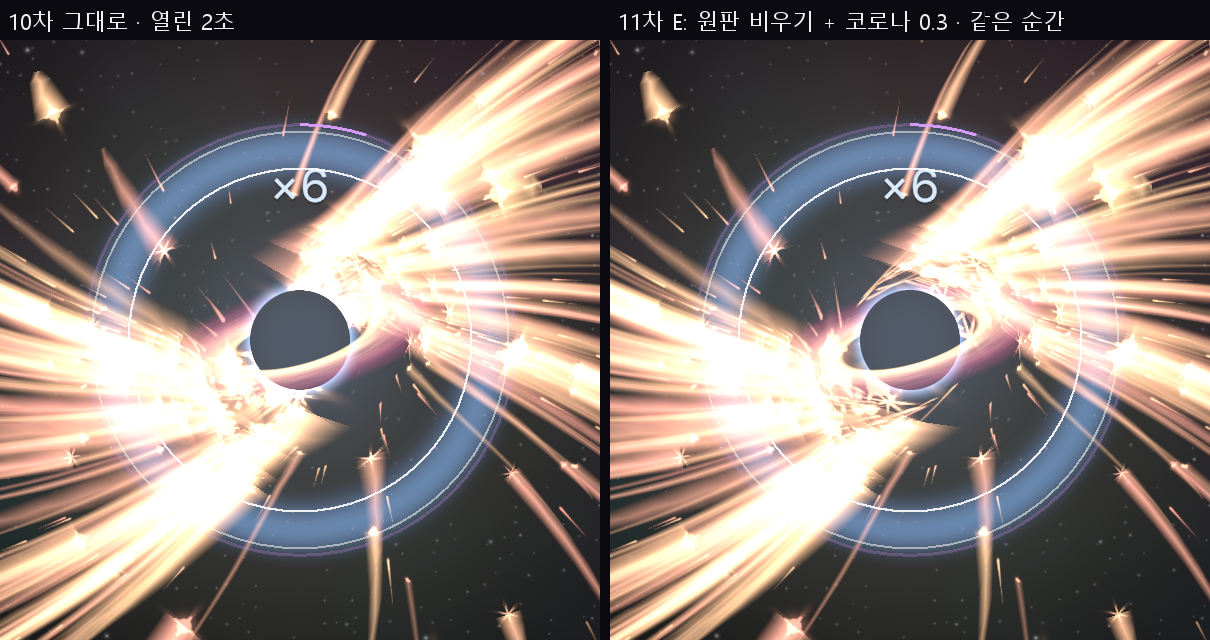
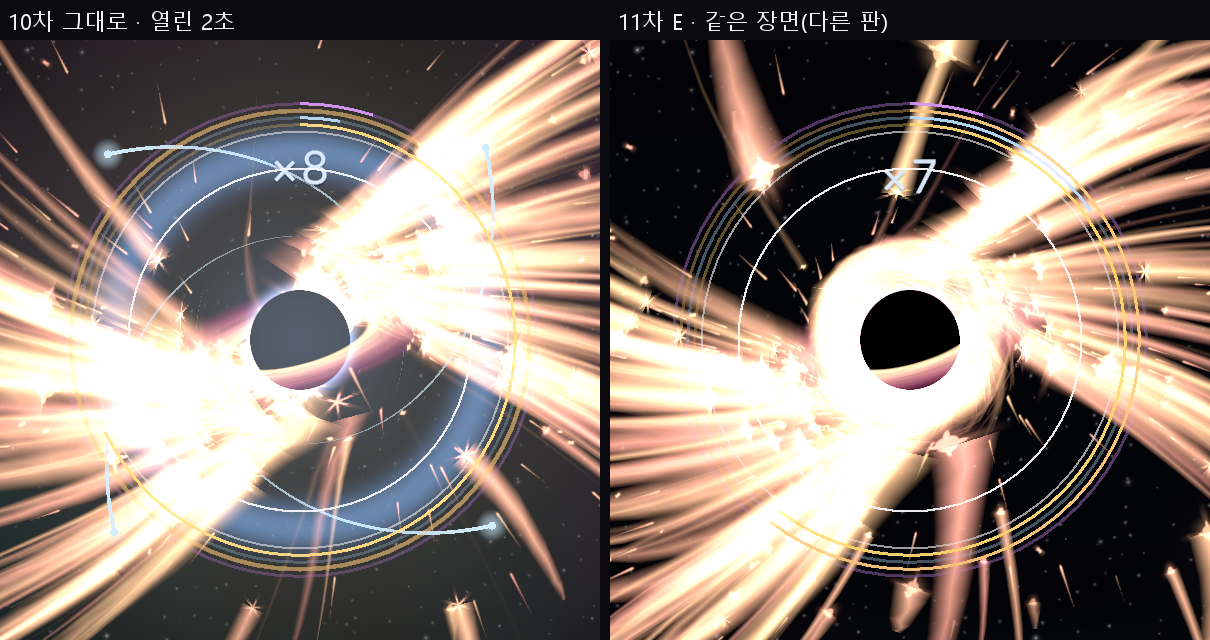
11차 E: 원판이 회색이던 진짜 원인, 블랙홀 아래 점화 연출 끄기 (24 §24.3)
- 회색의 원인은 먼지가 아니라 점화 연출이었다: 블랙홀이 열린 동안 중력원에서 별(티어 9~11)이 완성되면 IgnitionFx의 화면 플래시(order 60)와 빛 고리(order 55)가 모든 것 위에 그려져 검은 원판을 씻었다. 먼지는 원판 뒤(order 0)에 그려진다
- AbilityTable.blackHole.blackHoleIgnitionScale 0: 천체가 작아진 동안 점화한 별의 플래시·빛 고리 배율 (1 = 예전)
- 캡처 다시: 열린 0.6초·2초 모두 원판이 검고 가장자리에 먼지 고리

diff --git a/Assets/Game/Scripts/Data/AbilityTable.cs b/Assets/Game/Scripts/Data/AbilityTable.cs
@@ -393,6 +393,9 @@ namespace Incremental
         [Tooltip("24 §24.3: the glow (corona) of those bodies reaches this share of its own reach, on top of the body's " +
                  "shrink, so it does not lie round the disc as a thick ring. 1 = shrinks with the body only.")]
         public double blackHoleBodyGlowScale = 0.3;
+        [Tooltip("24 §24.3: a star that ignites while the bodies are shrunk gets its ignition flash and light ring at this " +
+                 "share (they are drawn over everything, so they washed the black disc grey). 1 = as before.")]
+        public double blackHoleIgnitionScale = 0;
 
         [Header("Lens (24 §24.2-2)")]
         [Tooltip("How far the background stars, the dust and the trails are pushed outward around the black hole, in black hole " +
@@ -435,6 +438,8 @@ namespace Incremental
             if (darkenAlpha < 0 || darkenAlpha > 1 || darkenReach < 0 || darkenReach > 1)
                 r.Errors.Add(Where + " darkenAlpha and darkenReach must be within 0..1.");
             if (flashAlpha < 0 || flashAlpha > 1 || flashRiseSec < 0) r.Errors.Add(Where + " flashAlpha must be within 0..1 and flashRiseSec >= 0.");
+            if (blackHoleIgnitionScale < 0 || blackHoleIgnitionScale > 1)
+                r.Errors.Add(Where + " blackHoleIgnitionScale must be within 0..1.");
             if (!(blackHoleBodyGlowScale > 0) || blackHoleBodyGlowScale > 1)
                 r.Errors.Add(Where + " blackHoleBodyGlowScale must be within 0..1 (0 excluded).");
             if (!(blackHoleBodyScale > 0) || blackHoleBodyScale > 1 || !(blackHoleBodyMaxShare > 0) || blackHoleBodyRestoreSec < 0)

diff --git a/Assets/Game/Scripts/IgnitionFx.cs b/Assets/Game/Scripts/IgnitionFx.cs
@@ -25,6 +25,8 @@ namespace Incremental
         float duration;
         float flashPeak;
         float ringFromPx, ringToPx;
+        /// <summary>24 §24.3: 1, or AbilityTable.blackHole.blackHoleIgnitionScale for a star made while the black hole is on.</summary>
+        float muted = 1f;
         Color ringColor;
         Vector3 center;
 
@@ -76,6 +78,9 @@ namespace Incremental
             center = new Vector3(root.CursorWorld.x, root.CursorWorld.y, 0f);
             ring.transform.position = center;
             age = 0f;
+            // 24 §24.3: a star made under the black hole lights up under it; its flash and ring are drawn over
+            // everything (orders 55 and 60) and would wash the black disc grey.
+            muted = root.GravityBodiesShrunk && root.abilityTable != null ? Mathf.Clamp01((float)root.abilityTable.blackHole.blackHoleIgnitionScale) : 1f;
             if (firstStar) root.Backdrop.BlendNextChange(duration);
         }
 
@@ -84,7 +89,7 @@ namespace Incremental
             if (age < 0f) return;
             age += Time.deltaTime;
             float k = age / duration;
-            float intensity = root.EffectIntensity;
+            float intensity = root.EffectIntensity * muted;
             if (k >= 1f || intensity <= 0f)
             {
                 Hide();
